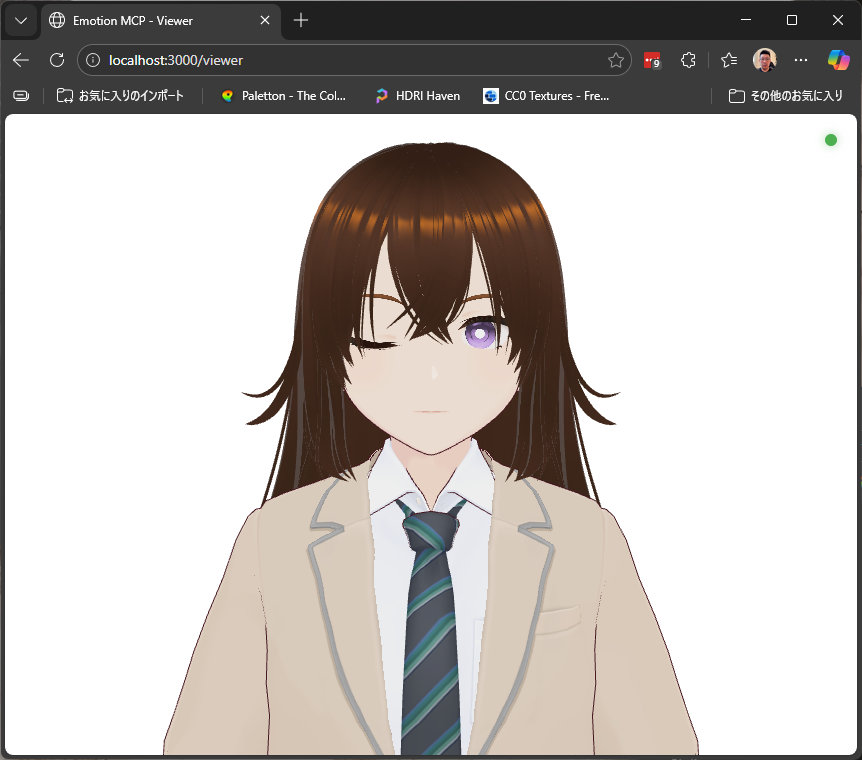
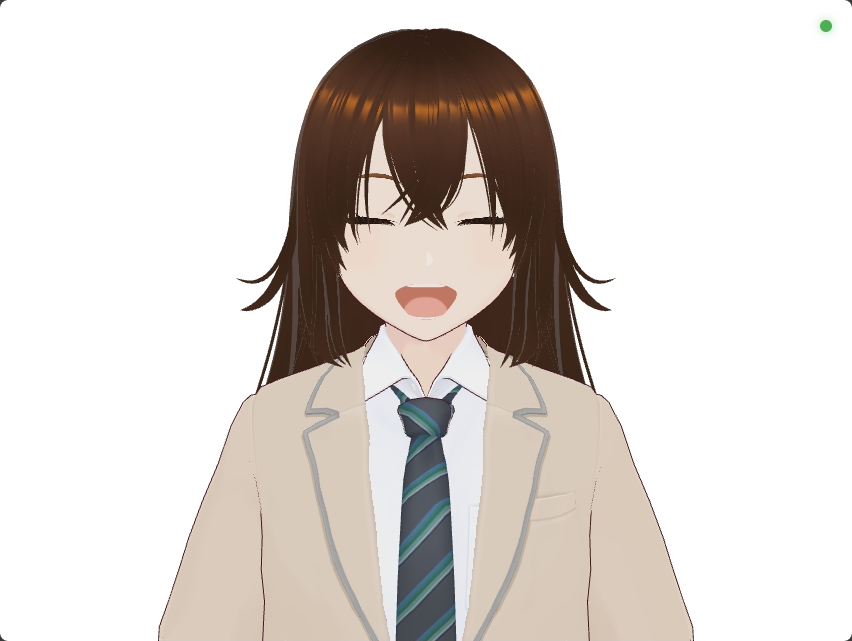
Suppress blink during eye-affecting expressions and update screenshot
Extend blink suppression to include happy/relaxed blend shapes that
affect the eyes, preventing unnatural blinking during smiling expressions.

diff --git a/src/client/viewer/vrm-renderer.js b/src/client/viewer/vrm-renderer.js
@@ -371,10 +371,15 @@ export class VrmRenderer {
   _updateBlink(delta) {
     if (!this.vrm?.expressionManager) return;
 
-    // 表情プリセットで目を閉じている場合はまばたきを抑制
-    const eyeBlendShapes = ["blink", "blinkLeft", "blinkRight"];
+    // 表情プリセットで目に影響がある場合はまばたきを抑制
+    // blink系: 直接まばたきと競合
+    // happy/relaxed: 目を細める表情で、まばたきが不自然になる
+    const eyeBlendShapes = [
+      "blink", "blinkLeft", "blinkRight",
+      "happy", "relaxed",
+    ];
     const hasEyeExpression = eyeBlendShapes.some(
-      (name) => (this.currentBlendShapes.get(name) || 0) > 0.3
+      (name) => (this.currentBlendShapes.get(name) || 0) > 0.5
     );
 
     if (hasEyeExpression) {
